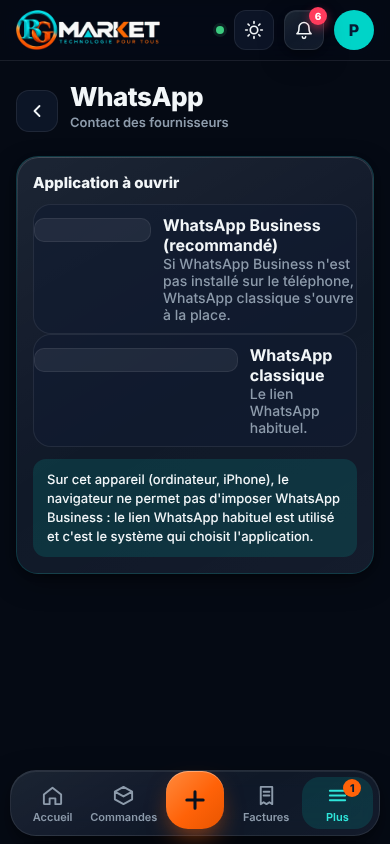
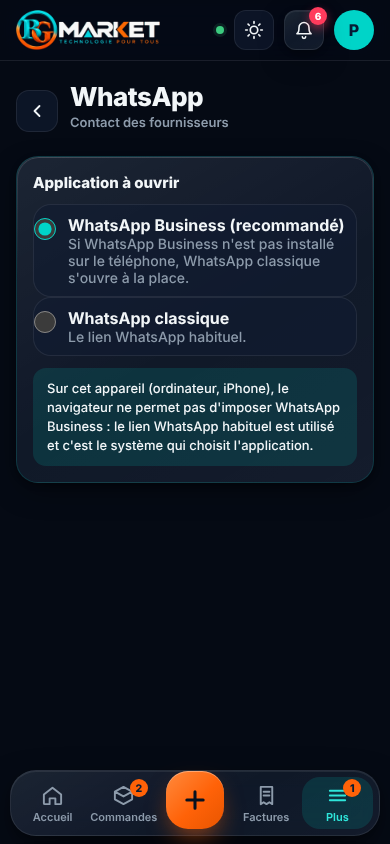
Réglages WhatsApp et Notifications : boutons de choix et cases à cocher de taille normale
La règle générale des champs (largeur 100 %, marges, apparence native retirée) transformait les cases
à cocher et boutons de choix en grands rectangles vides. Apparence native rétablie pour toutes les cases
et tous les boutons de choix, en turquoise ; tests de taille ajoutés ; captures 35 et 36 du dossier
Motion Design refaites (thèmes sombre et clair).

Claude-Session: https://claude.ai/code/session_012W8AWV26vLqhbb1h3EqDN9

Changed region(s): [[0.0308, 0.2464, 0.9846, 0.6777], [0.3385, 0.9242, 0.4, 0.955]]

diff --git a/index.html b/index.html
@@ -1922,6 +1922,8 @@ html,body{overflow-x:hidden}
 @media (prefers-reduced-motion:reduce){.dc-card{transition:none}.dc-card:hover{transform:none}}
 /* Photo de profil : jamais d'initiale par-dessus la photo */
 .st-ava.has-photo{color:transparent!important;text-shadow:none!important}
+/* Cases à cocher et boutons de choix : apparence native (la règle générale des champs les transformait en grands rectangles vides) */
+input[type="checkbox"],input[type="radio"]{-webkit-appearance:auto!important;appearance:auto!important;width:22px!important;height:22px!important;min-width:22px;flex:none;margin:0;padding:0!important;border:0!important;box-shadow:none!important;background:none!important;accent-color:var(--turq);cursor:pointer}
 </style>
 </head>
 <body>

diff --git a/documentation/motion-design/captures/INVENTAIRE.md b/documentation/motion-design/captures/INVENTAIRE.md
@@ -26,6 +26,8 @@ Préfixes : `pc-` ordinateur · `tel-` téléphone · `sombre` / `clair` thème 
 | `pc-sombre-15-historique.png` | Historique | Onglets Commandes, Factures, SAV, Mois ; filtres par vendeur | 1440 × 900 |
 | `pc-sombre-16-historique-mois.png` | Historique | Bilan mensuel : chiffre d'affaires, commandes, factures, bénéfice | 1440 × 900 |
 | `tel-01-connexion.png` | Connexion | Page de connexion sur téléphone | 390 × 844 |
+| `tel-clair-35-reglages-whatsapp.png` | Réglages | Choix WhatsApp Business ou classique, thème clair (affichage corrigé) | 390 × 844 |
+| `tel-clair-36-reglages-notifications.png` | Réglages | Catégories de notifications, thème clair (affichage corrigé) | 390 × 844 |
 | `tel-clair-37-tableau-de-bord-haut.png` | Tableau de bord | Thème clair sur téléphone | 390 × 844 |
 | `tel-employe-40-tableau-de-bord.png` | Tableau de bord (employé) | Vue employé sur téléphone : « Mes ventes du jour », sans bénéfice | 390 × 844 |
 | `tel-employe-41-mes-commandes.png` | Commandes (employé) | « Mes commandes » : seulement les siennes | 390 × 844 |
@@ -44,9 +46,9 @@ Préfixes : `pc-` ordinateur · `tel-` téléphone · `sombre` / `clair` thème 
 | `tel-sombre-32-sav.png` | SAV | Liste SAV avec étapes (déposé, en réparation…) | 390 × 844 |
 | `tel-sombre-33-import-catalogue.png` | Fournisseurs | Importer une liste de prix collée depuis WhatsApp | 390 × 844 |
 | `tel-sombre-34-reglages.png` | Réglages | Accueil des réglages (e-mail masqué) | 390 × 844 |
-| `tel-sombre-35-reglages-whatsapp.png` | Réglages | Choix WhatsApp Business ou classique : montre le défaut d'affichage des boutons de choix, à éviter | 390 × 844 |
-| `tel-sombre-36-reglages-notifications.png` | Réglages | Catégories de notifications : montre le défaut d'affichage des cases à cocher, à éviter | 390 × 844 |
+| `tel-sombre-35-reglages-whatsapp.png` | Réglages | Choix WhatsApp Business ou classique (affichage corrigé) | 390 × 844 |
+| `tel-sombre-36-reglages-notifications.png` | Réglages | Catégories de notifications (affichage corrigé) | 390 × 844 |
 
-Total : 40 fichiers.
+Total : 42 fichiers.
 
-À éviter dans la vidéo : `tel-sombre-35` et `tel-sombre-36` (défaut d'affichage connu des boutons de choix et des cases à cocher dans les réglages).
+Les captures 35 et 36 (réglages) ont été refaites après la correction du défaut d'affichage des boutons de choix et des cases à cocher (correctif sur la branche de travail, pas encore publié).

diff --git a/documentation/motion-design/05-reference-visuelle.md b/documentation/motion-design/05-reference-visuelle.md
@@ -25,9 +25,9 @@
 8. **Page de connexion** (`pc-01`, `tel-01`).
 
 ## Captures disponibles
-Voir [captures/INVENTAIRE.md](captures/INVENTAIRE.md) : 40 fichiers PNG, avec leur section et ce qu'ils montrent.
+Voir [captures/INVENTAIRE.md](captures/INVENTAIRE.md) : 42 fichiers PNG, avec leur section et ce qu'ils montrent.
 
 - **Formats :** ordinateur 1440 × 900 px (sauf `pc-sombre-02`, tableau de bord complet de 2300 px de haut) ; téléphone 390 × 844 px (sauf `tel-sombre-20`, tableau de bord complet de 3400 px de haut).
 - **Contenu :** données de démonstration uniquement. Les adresses e-mail sont masquées (« adresse masquée »).
 - Le libellé « 01/05/2026 – 31/10/2026 » en haut du tableau de bord correspond à la période du graphique (6 mois).
-- **À éviter :** `tel-sombre-35` (Réglages › WhatsApp) et `tel-sombre-36` (Réglages › Notifications) montrent le défaut d'affichage des boutons de choix et des cases à cocher.
+- `tel-sombre-35` / `tel-clair-35` (Réglages › WhatsApp) et `tel-sombre-36` / `tel-clair-36` (Réglages › Notifications) montrent les réglages corrigés. Le correctif est sur la branche de travail ; il sera en ligne après publication.

diff --git a/documentation/motion-design/02-fonctionnalites.md b/documentation/motion-design/02-fonctionnalites.md
@@ -124,5 +124,5 @@ Statuts : **Confirmé** (présent et fonctionnel, la plupart du temps couvert pa
 | Informations de la boutique, factures (numérotation, garantie), ventes (marge par défaut, seuil de stock), objectifs | Confirmé | Selon les droits |
 | Export des données (CSV pour Excel) | Confirmé | Commandes, factures, clients, produits |
 
-## Défauts visuels connus (application publiée)
-- Dans **Réglages › WhatsApp** et **Réglages › Notifications**, les boutons de choix et les cases à cocher s'affichent comme de grands rectangles vides. Captures 35 et 36. Le fonctionnement n'est pas en cause. **À éviter à l'écran**, ou à corriger avant le tournage.
+## Défauts visuels connus
+- Le défaut d'affichage des boutons de choix et des cases à cocher dans **Réglages › WhatsApp** et **Réglages › Notifications** (grands rectangles vides) est **corrigé** sur la branche de travail. Captures 35 et 36 refaites. Il reste à publier ce correctif pour que la version en ligne en bénéficie.

diff --git a/documentation/motion-design/README.md b/documentation/motion-design/README.md
@@ -17,7 +17,7 @@ Ce dossier décrit l'application **telle qu'elle existe**, pour préparer une vi
 | 5 | [05-reference-visuelle.md](05-reference-visuelle.md) | Identité visuelle, écrans représentatifs, liste commentée des captures |
 | 6 | [06-base-motion-design.md](06-base-motion-design.md) | Ce qui peut être animé fidèlement, ce qui relève de la mise en scène, ce qu'il ne faut pas montrer comme réel |
 | 7 | [07-direction-narrative.md](07-direction-narrative.md) | Base factuelle pour le récit, dont la section sur le créateur, à compléter |
-| — | [captures/INVENTAIRE.md](captures/INVENTAIRE.md) | Liste des 40 captures disponibles |
+| — | [captures/INVENTAIRE.md](captures/INVENTAIRE.md) | Liste des 42 captures disponibles |
 
 ## Règles de lecture
 

diff --git a/documentation/motion-design/07-direction-narrative.md b/documentation/motion-design/07-direction-narrative.md
@@ -42,5 +42,5 @@
 5. **Contact à afficher** à la fin : site, numéro WhatsApp, adresse.
 6. **Durée et format :** 30, 60 ou 90 secondes ; horizontal (16:9) ou vertical (9:16) pour WhatsApp, TikTok ou Instagram.
 7. **Langue et voix off :** français uniquement, ou version anglaise.
-8. **Défaut d'affichage des réglages** (WhatsApp et Notifications) : le corriger avant le tournage si ces écrans doivent apparaître.
+8. **Défaut d'affichage des réglages** (WhatsApp et Notifications) : corrigé, à publier avant le tournage si ces écrans doivent apparaître.
 9. **Notifications sur le téléphone :** à ne pas montrer, sauf si le forfait Blaze est activé plus tard.
